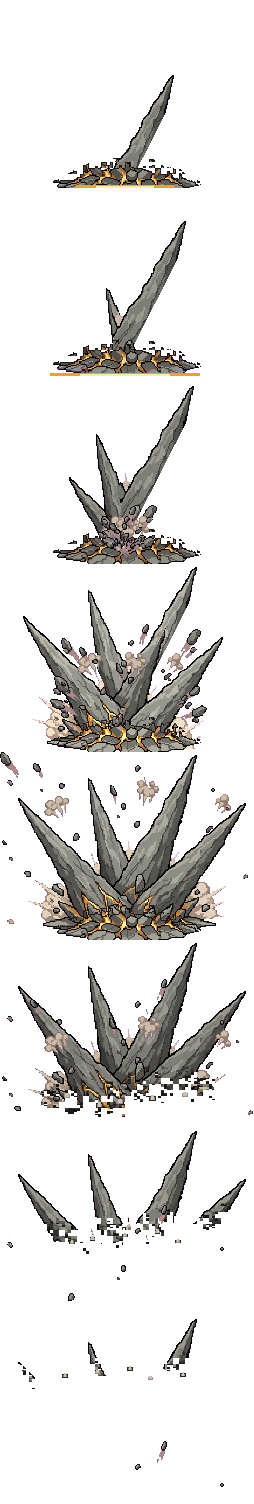
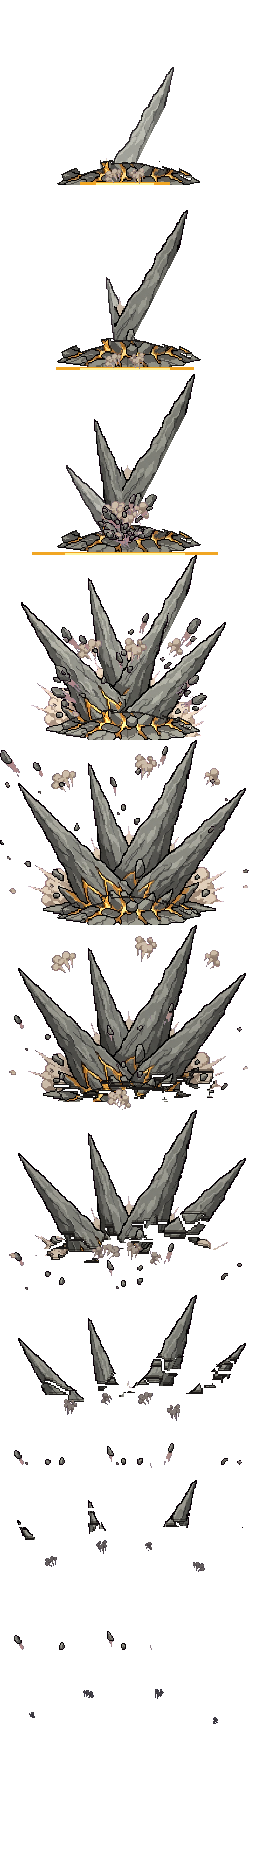
Use the 10-frame version of the Onix stone spikes
Claude-Session: https://claude.ai/code/session_01BNgsMY3xJ5fCpYNaX7SYwq

diff --git a/Terramon/Content/Projectiles/OnixRockSpikes.cs b/Terramon/Content/Projectiles/OnixRockSpikes.cs
@@ -10,8 +10,8 @@ namespace Terramon.Content.Projectiles;
 /// </summary>
 public sealed class OnixRockSpikes : ModProjectile
 {
-    private const int FrameCount = 8;
-    private const int TicksPerFrame = 5;
+    private const int FrameCount = 10;
+    private const int TicksPerFrame = 4;
 
     public override string Texture => "Terramon/Assets/Projectiles/OnixRockSpikes";
 
@@ -47,7 +47,7 @@ public sealed class OnixRockSpikes : ModProjectile
                 // Warning: the ground cracks and glows first
                 SoundEngine.PlaySound(SoundID.Item69 with { Pitch = -0.3f }, ground);
                 break;
-            case 2 when Projectile.timeLeft % TicksPerFrame == 0:
+            case 3 when Projectile.timeLeft % TicksPerFrame == 0:
                 SoundEngine.PlaySound(SoundID.Item70, ground);
                 for (var i = 0; i < 20; i++)
                     Dust.NewDust(ground - new Vector2(80, 16), 160, 16, DustID.Stone,
@@ -55,12 +55,12 @@ public sealed class OnixRockSpikes : ModProjectile
                 break;
         }
 
-        if (Projectile.frame < 4)
+        if (Projectile.frame < 5)
             Lighting.AddLight(ground, 0.9f, 0.6f, 0.15f);
     }
 
     // Only the frames where the spikes are out hurt
-    public override bool? CanDamage() => Projectile.frame is >= 2 and <= 5;
+    public override bool? CanDamage() => Projectile.frame is >= 3 and <= 6;
 
     public override bool? CanHitNPC(NPC target) =>
         target.friendly || target.townNPC || target.ModNPC is PokemonNPC ? false : null;
